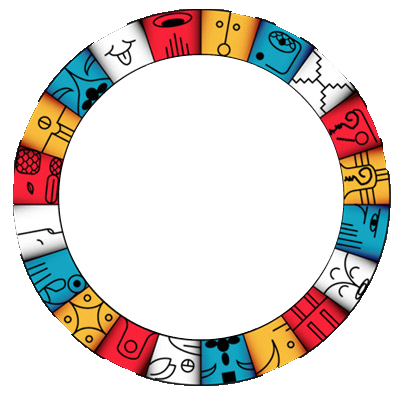
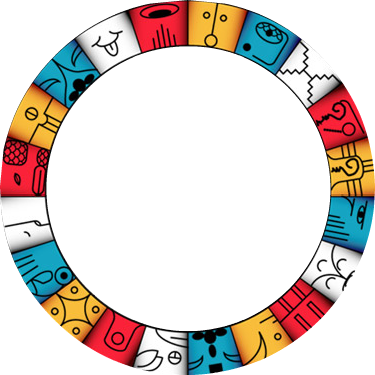
CHANGED:update the calendario_00.png; CHANGED:added the OneFingerRotationGesture protocol;(TBC)

Changed region(s): [[0.0, 0.0, 1.0, 1.0]]

diff --git a/Calendario/CalendarioLayer.m b/Calendario/CalendarioLayer.m
@@ -9,9 +9,30 @@
 
 // Import the interfaces
 #import "CalendarioLayer.h"
+//
 
 // CalendarioLayer implementation
 @implementation CalendarioLayer
+
+//@interface CalendarioLayer ()
+//{
+ CGFloat imageAngle;
+ OneFingerRotationGestureRecognizer *gestureRecognizer;
+//
+ UIImageView *image;
+ UIImage *img_calendario_00;
+ UIImage *img_calendario_01;
+ UIImage *img_calendario_02;
+ UIImage *img_calendario_03;
+ CCSprite *calendario_00;
+ CCSprite *calendario_01;
+ CCSprite *calendario_02;
+ CCSprite *calendario_03;    
+//}
+
+//- (void) updateTextDisplay;
+//- (void) setupGestureRecognizer;
+//@end
 
 +(CCScene *) scene
 {
@@ -55,26 +76,26 @@
 //        foo.image = [UIImage imageNamed:@"earth.jpg"];
 //        foo.contentMode = UIViewContentModeScaleAspectFit;
 //        foo.clipsToBounds = YES;
-        UIImage *img_calendario_00 = [UIImage imageNamed:@"calendario_00.png"];
-        CCSprite *calendario_00 =  [[CCSprite alloc] initWithCGImage: [img_calendario_00 CGImage] key: @"calendario_00"];
+        img_calendario_00 = [UIImage imageNamed:@"calendario_00.png"];
+        calendario_00 =  [[CCSprite alloc] initWithCGImage: [img_calendario_00 CGImage] key: @"calendario_00"];
         [self addChild:calendario_00];
         calendario_00.position = ccp(screenSize.width/2.0f,screenSize.height/2.0f);
         
         //
-        UIImage *img_calendario_01 = [UIImage imageNamed:@"calendario_01.png"];
-        CCSprite *calendario_01 =  [[CCSprite alloc] initWithCGImage: [img_calendario_01 CGImage] key: @"calendario_01"];
+        img_calendario_01 = [UIImage imageNamed:@"calendario_01.png"];
+        calendario_01 =  [[CCSprite alloc] initWithCGImage: [img_calendario_01 CGImage] key: @"calendario_01"];
         [self addChild:calendario_01];
         calendario_01.position = ccp(screenSize.width/2.0f,screenSize.height/2.0f);
         
         //
-        UIImage *img_calendario_02 = [UIImage imageNamed:@"calendario_02.png"];
-        CCSprite *calendario_02 =  [[CCSprite alloc] initWithCGImage: [img_calendario_02 CGImage] key: @"calendario_02"];
+        img_calendario_02 = [UIImage imageNamed:@"calendario_02.png"];
+        calendario_02 =  [[CCSprite alloc] initWithCGImage: [img_calendario_02 CGImage] key: @"calendario_02"];
         [self addChild:calendario_02];
         calendario_02.position = ccp(screenSize.width/2.0f,screenSize.height/2.0f);
         
         //
-        UIImage *img_calendario_03 = [UIImage imageNamed:@"calendario_03.png"];
-        CCSprite *calendario_03 =  [[CCSprite alloc] initWithCGImage: [img_calendario_03 CGImage] key: @"calendario_03"];
+        img_calendario_03 = [UIImage imageNamed:@"calendario_03.png"];
+        calendario_03 =  [[CCSprite alloc] initWithCGImage: [img_calendario_03 CGImage] key: @"calendario_03"];
         [self addChild:calendario_03];
         calendario_03.position = ccp(screenSize.width/2.0f,screenSize.height/2.0f);
         
@@ -93,7 +114,7 @@
 -(IBAction)handleRotateGesture:(UIGestureRecognizer *)sender
 {
     CGFloat netRotation = 0.0f;
-    CGFloat rotation = [(UIRotationGestureRecognizer *)sender rotation];
+    CGFloat rotation = CC_RADIANS_TO_DEGREES([(UIRotationGestureRecognizer *)sender rotation]);
     CGAffineTransform transform = CGAffineTransformMakeRotation(rotation+netRotation);
     sender.view.transform = transform;
     if (sender.state == UIGestureRecognizerStateEnded) {
@@ -120,6 +141,26 @@
         }
     }
 }
+
+// Addes gesture recognizer to the view (or any other parent view of image. Calculates midPoint
+// and radius, based on the image position and dimension.
+- (void) setupGestureRecognizer
+{
+    // calculate center and radius of the control
+    CGPoint midPoint = CGPointMake(calendario_01.position.x + img_calendario_00.size.width / 2,
+                                   calendario_01.position.y + img_calendario_00.size.height / 2);
+    CGFloat outRadius = img_calendario_00.size.width / 2;
+    
+    // outRadius / 3 is arbitrary, just choose something >> 0 to avoid strange 
+    // effects when touching the control near of it's center
+    gestureRecognizer = [[OneFingerRotationGestureRecognizer alloc] initWithMidPoint: midPoint
+                                                                         innerRadius: outRadius / 3 
+                                                                         outerRadius: outRadius
+                                                                              target: self];
+//    [self.view addGestureRecognizer: gestureRecognizer];
+     [[[CCDirector sharedDirector] openGLView] addGestureRecognizer:gestureRecognizer];
+}
+
 // on "dealloc" you need to release all your retained objects
 - (void) dealloc
 {

diff --git a/Calendario/OneFingerRotationGestureRecognizer.m b/Calendario/OneFingerRotationGestureRecognizer.m
@@ -1,0 +1,150 @@
+//
+//  CircularGestureRecognizer.m
+//
+
+#include <math.h>
+
+#import "OneFingerRotationGestureRecognizer.h"
+
+@implementation OneFingerRotationGestureRecognizer
+
+// private helper functions
+CGFloat distanceBetweenPoints(CGPoint point1, CGPoint point2);
+CGFloat angleBetweenLinesInDegrees(CGPoint beginLineA,
+                                   CGPoint endLineA,
+                                   CGPoint beginLineB,
+                                   CGPoint endLineB);
+
+- (id) initWithMidPoint: (CGPoint) _midPoint
+            innerRadius: (CGFloat) _innerRadius
+            outerRadius: (CGFloat) _outerRadius
+                 target: (id <OneFingerRotationGestureRecognizerDelegate>) _target
+{
+    if ((self = [super initWithTarget: _target action: nil]))
+    {
+        midPoint    = _midPoint;
+        innerRadius = _innerRadius;
+        outerRadius = _outerRadius;
+        target      = _target;
+    }
+    return self;
+}
+
+/** Calculates the distance between point1 and point 2. */
+CGFloat distanceBetweenPoints(CGPoint point1, CGPoint point2)
+{
+    CGFloat dx = point1.x - point2.x;
+    CGFloat dy = point1.y - point2.y;
+    return sqrt(dx*dx + dy*dy);
+}
+
+CGFloat angleBetweenLinesInDegrees(CGPoint beginLineA,
+                                   CGPoint endLineA,
+                                   CGPoint beginLineB,
+                                   CGPoint endLineB)
+{
+    CGFloat a = endLineA.x - beginLineA.x;
+    CGFloat b = endLineA.y - beginLineA.y;
+    CGFloat c = endLineB.x - beginLineB.x;
+    CGFloat d = endLineB.y - beginLineB.y;
+
+    CGFloat atanA = atan2(a, b);
+    CGFloat atanB = atan2(c, d);
+
+    // convert radiants to degrees
+    return (atanA - atanB) * 180 / M_PI;
+}
+
+#pragma mark - UIGestureRecognizer implementation
+
+- (void)reset
+{
+    [super reset];
+    cumulatedAngle = 0;
+}
+
+- (void)touchesBegan:(NSSet *)touches withEvent:(UIEvent *)event
+{
+    [super touchesBegan:touches withEvent:event];
+
+    if ([touches count] != 1)
+    {
+        self.state = UIGestureRecognizerStateFailed;
+
+        return;
+    }
+}
+
+- (void)touchesMoved:(NSSet *)touches withEvent:(UIEvent *)event
+{
+    [super touchesMoved:touches withEvent:event];
+
+    if (self.state == UIGestureRecognizerStateFailed) return;
+
+    CGPoint nowPoint  = [[touches anyObject] locationInView: self.view];
+    CGPoint prevPoint = [[touches anyObject] previousLocationInView: self.view];
+
+    // make sure the new point is within the area
+    CGFloat distance = distanceBetweenPoints(midPoint, nowPoint);
+    if (   innerRadius <= distance
+        && distance    <= outerRadius)
+    {
+        // calculate rotation angle between two points
+        CGFloat angle = angleBetweenLinesInDegrees(midPoint, prevPoint, midPoint, nowPoint);
+
+        // fix value, if the 12 o'clock position is between prevPoint and nowPoint
+        if (angle > 180)
+        {
+            angle -= 360;
+        }
+        else if (angle < -180)
+        {
+            angle += 360;
+        }
+
+        // sum up single steps
+        cumulatedAngle += angle;
+
+        // call delegate
+        if ([target respondsToSelector: @selector(rotation:)])
+        {
+            [target rotation:angle];
+        }
+    }
+    else
+    {
+        // finger moved outside the area
+        self.state = UIGestureRecognizerStateFailed;
+    }
+}
+
+- (void)touchesEnded:(NSSet *)touches withEvent:(UIEvent *)event 
+{
+    [super touchesEnded:touches withEvent:event];
+
+    if (self.state == UIGestureRecognizerStatePossible)
+    {
+        self.state = UIGestureRecognizerStateRecognized;
+
+        if ([target respondsToSelector: @selector(finalAngle:)])
+        {
+            [target finalAngle:cumulatedAngle];
+        }
+    }
+    else
+    {
+        self.state = UIGestureRecognizerStateFailed;
+    }
+
+    cumulatedAngle = 0;
+}
+
+- (void)touchesCancelled:(NSSet *)touches withEvent:(UIEvent *)event
+{
+    [super touchesCancelled:touches withEvent:event];
+
+    self.state = UIGestureRecognizerStateFailed;
+    cumulatedAngle = 0;
+}
+
+@end

diff --git a/Calendario/OneFingerRotationGestureRecognizer.h b/Calendario/OneFingerRotationGestureRecognizer.h
@@ -1,0 +1,33 @@
+//
+//  CircularGestureRecognizer.h
+//
+
+#import <Foundation/Foundation.h>
+#import <UIKit/UIGestureRecognizerSubclass.h>
+
+@protocol OneFingerRotationGestureRecognizerDelegate <NSObject>
+@optional
+- (void) rotation: (CGFloat) angle;
+- (void) finalAngle: (CGFloat) angle;
+@end
+
+@interface OneFingerRotationGestureRecognizer : UIGestureRecognizer
+{
+    CGPoint midPoint;
+    CGFloat innerRadius;
+    CGFloat outerRadius;
+    CGFloat cumulatedAngle;
+    id <OneFingerRotationGestureRecognizerDelegate> target;
+}
+
+- (id) initWithMidPoint: (CGPoint) midPoint
+            innerRadius: (CGFloat) innerRadius
+            outerRadius: (CGFloat) outerRadius
+                 target: (id) target;
+- (void)reset;
+- (void)touchesBegan:(NSSet *)touches withEvent:(UIEvent *)event;
+- (void)touchesMoved:(NSSet *)touches withEvent:(UIEvent *)event;
+- (void)touchesEnded:(NSSet *)touches withEvent:(UIEvent *)event;
+- (void)touchesCancelled:(NSSet *)touches withEvent:(UIEvent *)event;
+
+@end

diff --git a/Calendario/CalendarioLayer.h b/Calendario/CalendarioLayer.h
@@ -9,9 +9,9 @@
 
 // When you import this file, you import all the cocos2d classes
 #import "cocos2d.h"
-
+#import "OneFingerRotationGestureRecognizer.h"
 // CalendarioLayer
-@interface CalendarioLayer : CCLayer
+@interface CalendarioLayer : CCLayer <OneFingerRotationGestureRecognizerDelegate>
 {
 }
 
